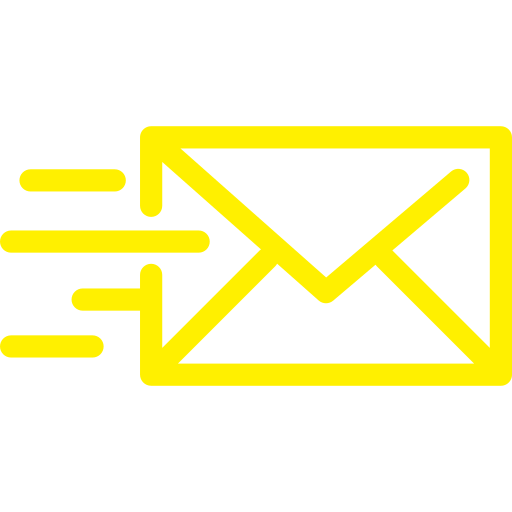
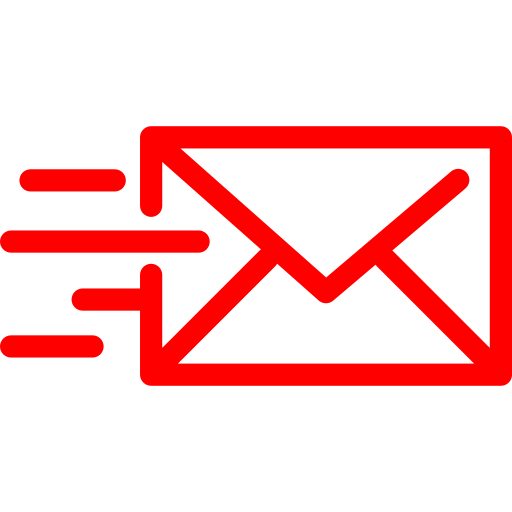
__dev__ROLLBACK

Changed region(s): [[0.0, 0.2188, 1.0, 0.7812], [0.0, 0.6562, 0.2188, 0.7188]]

diff --git a/index.html b/index.html
@@ -41,7 +41,7 @@
           <figure class="snip1190">
           <img src="images/31.png" alt="three" id="three1">&nbsp;&nbsp;&nbsp;&nbsp;&nbsp;&nbsp;
           <figcaption>
-            <div class="square">
+            <div>
               <div></div>
             </div>
             <span class="text31">
@@ -53,14 +53,14 @@
         <br>
         <figure class="danf">
           <img src="images/dan.png" id="danii">
-          <figcaption>
+          <figcaption style="color: #000 !important;">
             Checked by ~ Dani
           </figcaption>
         </figure>
         <figure class="snip1190">
           <img src="images/32.png" alt="three" id="three2">&nbsp;&nbsp;&nbsp;&nbsp;&nbsp;&nbsp;
           <figcaption>
-            <div class="square">
+            <div>
               <div></div>
             </div>
             <span class="text31">
@@ -72,14 +72,14 @@
         <br>
         <figure class="danf0">
           <img src="images/dan.png" id="danii">
-          <figcaption>
+          <figcaption style="color: #000 !important;">
             Checked by ~ Dani
           </figcaption>
         </figure>
           <figure class="snip1190">
           <img src="images/33.png" alt="three" id="three3">
           <figcaption>
-            <div class="square">
+            <div>
               <div></div>
             </div>
             <span class="text31">
@@ -91,7 +91,7 @@
         <br>
         <figure class="danf1">
           <img src="images/dan.png" id="danii">
-          <figcaption>
+          <figcaption style="color: #000 !important;">
             Checked by ~ Dani
           </figcaption>
         </figure>
@@ -140,7 +140,7 @@
             <figure class="snip1190">
               <img src="images/41.png" alt="three" id="f1">
               <figcaption>
-                <div class="square">
+                <div>
                   <div></div>
                 </div>
                 <span>
@@ -152,7 +152,7 @@
             <figure class="snip1190">
               <img src="images/42.png" alt="three" id="f1">
               <figcaption>
-                <div class="square">
+                <div>
                   <div></div>
                 </div>
                 <span>
@@ -164,7 +164,7 @@
             <figure class="snip1190">
               <img src="images/43.png" alt="three" id="f1">
               <figcaption>
-                <div class="square">
+                <div>
                   <div></div>
                 </div>
                 <span>
@@ -176,7 +176,7 @@
             <figure class="snip1190">
               <img src="images/44.png" alt="three" id="f1">
               <figcaption>
-                <div class="square">
+                <div>
                   <div></div>
                 </div>
                 <span>
@@ -193,7 +193,7 @@
           <figure class="snip1190">
             <img src="images/51.png" alt="three" id="ff1">
             <figcaption>
-              <div class="square">
+              <div>
                 <div></div>
               </div>
               <span>
@@ -205,7 +205,7 @@
           <figure class="snip1190">
             <img src="images/52.png" alt="three" id="ff1">
             <figcaption>
-              <div class="square">
+              <div>
                 <div></div>
               </div>
               <span>
@@ -217,7 +217,7 @@
           <figure class="snip1190">
             <img src="images/53.png" alt="three" id="ff1">
             <figcaption>
-              <div class="square">
+              <div>
                 <div></div>
               </div>
               <span>
@@ -229,11 +229,11 @@
           <figure class="snip1190">
             <img src="images/54.png" alt="three" id="ff1">
             <figcaption>
-              <div class="square">
+              <div>
                 <div></div>
               </div>
               <span>
-                <h2 style="font-size: 20px"> What's Your <span>Leadership </span>Style ?</h2>
+                <h2 style="font-size: 20px"> What's Your <span>Leadership ?</span></h2>
               </span>
             </figcaption>
           </figure>
@@ -241,7 +241,7 @@
           <figure class="snip1190">
             <img src="images/53.png" alt="three" id="ff1">
             <figcaption>
-              <div class="square">
+              <div>
                 <div></div>
               </div>
               <span>
@@ -253,7 +253,7 @@
           <figure class="snip1190">
             <img src="images/51.png" alt="three" id="ff1">
             <figcaption>
-              <div class="square">
+              <div>
                 <div></div>
               </div>
               <span>
@@ -271,7 +271,7 @@
           <figure class="snip1190 grid-item" height="400px" width="300px">
             <img src="images/61.png" alt="three" id="s1">
             <figcaption>
-              <div class="square">
+              <div>
                 <div></div>
               </div>
               <span>
@@ -283,7 +283,7 @@
           <figure class="snip1190 grid-item" height="400px" width="300px" id="ss2">
             <img src="images/62.png" alt="three" id="s1">
             <figcaption>
-              <div class="square">
+              <div>
                 <div></div>
               </div>
               <span>
@@ -295,7 +295,7 @@
           <figure class="snip1190 grid-item" height="400px" width="300px" id="ss3">
             <img src="images/63.png" alt="three" id="s1">
             <figcaption>
-              <div class="square">
+              <div>
                 <div></div>
               </div>
               <span>
@@ -307,7 +307,7 @@
           <figure class="snip1190 grid-item" height="400px" width="300px" id="ss4">
             <img src="images/64.png" alt="three" id="s1">
             <figcaption>
-              <div class="square">
+              <div>
                 <div></div>
               </div>
               <span>
@@ -323,13 +323,13 @@
             </div>
         <br>
         <div class="doctors">
-          <figure><img src="images/d1.png" alt="doctor" id="d1"><figcaption style="color: #FFFF00">Steven Gans, MD <br> Psychiatrist</figcaption></figure>
-          <figure><img src="images/d2.png" alt="doctor" id="d2"><figcaption style="color: #FFFF00">Daniel B. Block, MD <br> Radiologist</figcaption></figure>
-          <figure><img src="images/d3.png" alt="doctor" id="d3"><figcaption style="color: #FFFF00">Amy Morin, LCSW <br> Editor-in-Chief</figcaption></figure>
+          <figure><img src="images/d1.png" alt="doctor" id="d1"><figcaption style="color: #000;">Steven Gans, MD <br> Psychiatrist</figcaption></figure>
+          <figure><img src="images/d2.png" alt="doctor" id="d2"><figcaption style="color: #000;">Daniel B. Block, MD <br> Radiologist</figcaption></figure>
+          <figure><img src="images/d3.png" alt="doctor" id="d3"><figcaption style="color: #000;">Amy Morin, LCSW <br> Editor-in-Chief</figcaption></figure>
           <break></break>
-          <figure><img src="images/d4.png" alt="doctor" id="d4"><figcaption style="color: #FFFF00">Sara Clark <br> Mindfulness Teacher</figcaption></figure>
-          <figure><img src="images/d5.png" alt="doctor" id="d5"><figcaption style="color: #FFFF00">Shaheen Lakhan, MD <br> Neurologist</figcaption></figure>
-          <figure><img src="images/d6.png" alt="doctor" id="d6"><figcaption style="color: #FFFF00">Anita Sadaty, MD <br> Gynecologist</figcaption></figure>
+          <figure><img src="images/d4.png" alt="doctor" id="d4"><figcaption style="color: #000;">Sara Clark <br> Mindfulness Teacher</figcaption></figure>
+          <figure><img src="images/d5.png" alt="doctor" id="d5"><figcaption style="color: #000;">Shaheen Lakhan, MD <br> Neurologist</figcaption></figure>
+          <figure><img src="images/d6.png" alt="doctor" id="d6"><figcaption style="color: #000;">Anita Sadaty, MD <br> Gynecologist</figcaption></figure>
         </div>
         <br>
         <br>

diff --git a/css/style.css b/css/style.css
@@ -37,15 +37,17 @@
 html{
     font-family: "Poppins",Arial,sans-serif;
     scroll-behavior: smooth !important;
-    background-color: #000000 !important;
+    background-color: #FFFFFF !important;
+    color: #000000 !important;
 }
 
 body{
   height: auto;
   width: auto;
   overflow-x: hidden !important;
-  background-color: #000000;
+  background-color: #FFFFFF !important;
   font-family: "Poppins",Arial,sans-serif;
+  color: #000000 !important;
 }
 
 #menu{
@@ -64,7 +66,7 @@ body{
 }
 
 h1{
-    color: white;
+    color: #000;
 }
 
 #search{
@@ -82,8 +84,7 @@ h1{
 #guy{
   width: 925px;
   height: 560px;
-  border: 3px solid #FFFF00;
-  border-radius: 15px;
+  border: 3px solid #000;
   border-radius: 15px;
   position: relative;
   left: 0%;
@@ -131,7 +132,6 @@ h1{
 
 .threes{
   position: relative;
-  border-radius: 19.6px;
   left: 10% !important;
 }
 
@@ -162,11 +162,6 @@ h1{
   left: 12%;
   -webkit-filter: brightness(100%);
   display: flex;
-}
-
-#three1, #three2, #three3{
-  border-radius: 19.6px;
-  border: 2px solid black;
 }
 
 #three1:hover {
@@ -236,11 +231,6 @@ h1{
   width: 300px !important;
 }
 
-#f1, #f2, #f3, #f4{
-  border: 2px solid #FFFF00;
-  border-radius: 19.6px;
-}
-
 #f1:hover , #f2:hover , #f3:hover , #f4:hover {
   -webkit-filter: brightness(50%);
   -webkit-transition: all 1s ease;
@@ -287,8 +277,6 @@ p{
 
 
 #ff1, #ff2, #ff3, #ff4, #ff5, #ff6{
-  border: 2px solid #FFFF00;
-  border-radius: 19.6px;
   width: 280px;
   height: 160px;
 }
@@ -362,8 +350,6 @@ p{
 }
 
 #s1, #s2, #s3, #s4{
-  border: 2px solid #FFFF00;
-  border-radius: 19.6px;
   height: auto !important;
   width: 280px !important;
 }
@@ -461,8 +447,6 @@ p{
 }
 
 #d1, #d2, #d3, #d4, #d5, #d6{
-  border: 2px solid #FFFF00;
-  border-radius: 19.6px;
   -webkit-filter: grayscale(100%);
 }
 #d1:hover, #d2:hover, #d3:hover, #d4:hover, #d5:hover, #d6:hover {
@@ -484,9 +468,9 @@ figcaption{
 }
 
 .b1{
-  border: 2px solid #FFFF00 !important;
-  background: #FFFF00 !important;
-  color: #000;
+  border: 2px solid #000 !important;
+  background: green !important;
+  color: #FFF;
   text-transform: uppercase;
   position: relative;
   top: -50px;
@@ -508,9 +492,9 @@ figcaption{
   top: -8px;
 }
 .b2{
-  border: 2px solid #FFFF00 !important;
-  background: #FFFF00 !important;
-  color: #000;
+  border: 2px solid #000 !important;
+  background: green !important;
+  color: #FFF;
   text-transform: uppercase;
   position: relative;
   top: -50px;

diff --git a/css/mail.css b/css/mail.css
@@ -4,8 +4,8 @@ html, body {
 
 .btn {
   display: inline-block;
-  background: #FFFF00;
-  color: #000;
+  background: red;
+  color: #FFF;
   text-transform: uppercase;
   position: relative;
   left: -230px;

diff --git a/css/fig.css b/css/fig.css
@@ -10,7 +10,6 @@ figure.snip1190 {
   max-width: 310px;
   max-height: 220px;
   width: 100%;
-  background: #000000;
   text-align: center;
 }
 figure.snip1190 * {

diff --git a/css/footer.css b/css/footer.css
@@ -1,7 +1,7 @@
 .footer-clean {
   padding:50px 0;
-  background-color:#fff;
-  color:#4b4c4d;
+  background-color:teal;
+  color:#FFF;
 }
 
 .footer-clean h3 {
